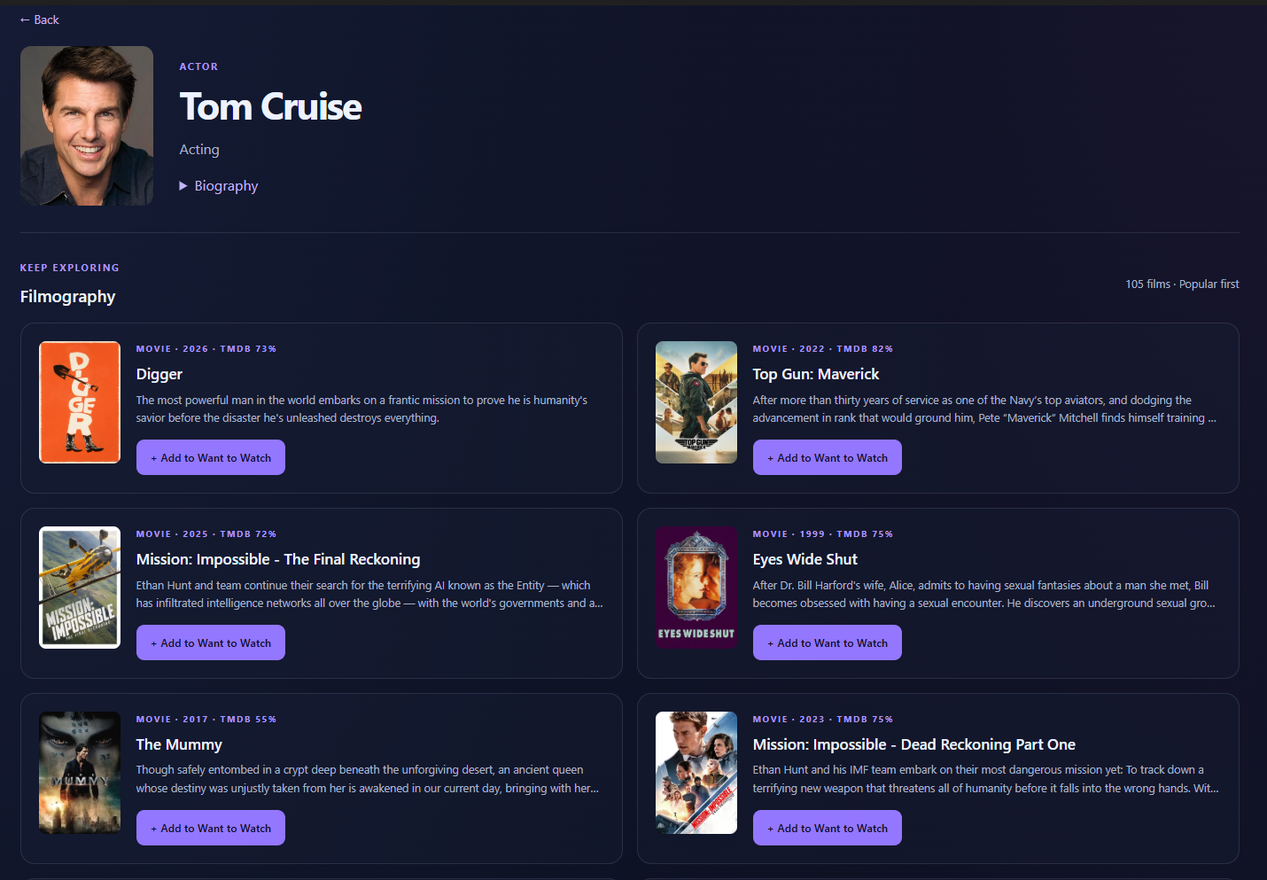
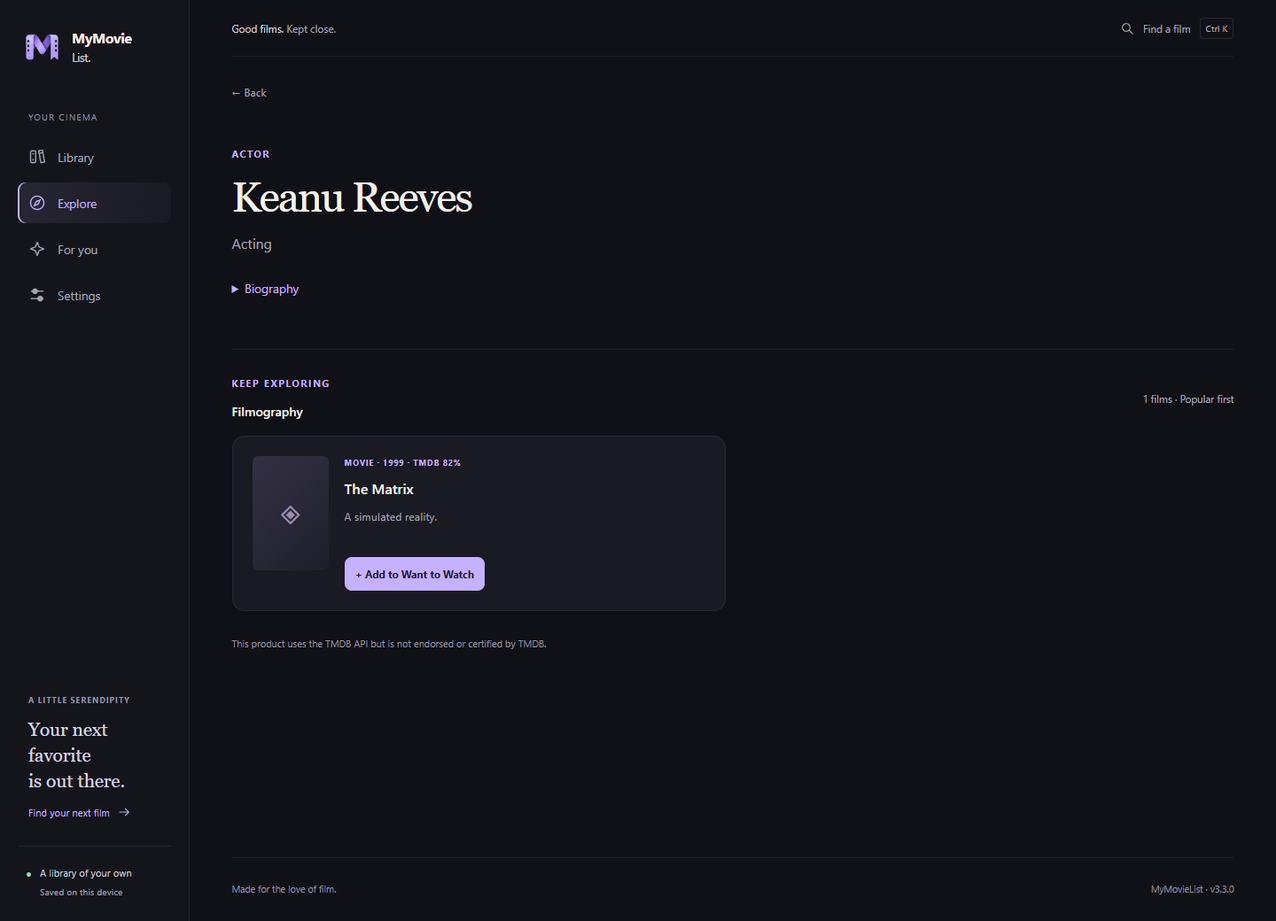
Update README

diff --git a/templates/base.html b/templates/base.html
@@ -11,6 +11,7 @@
                 MyMovieList
             {% endblock %}
         </title>
+        <link rel="icon" href="{{ url_for('static', filename='branding/mymovielist.ico') }}" sizes="any">
         <link rel="stylesheet"
               href="{{ url_for('static', filename='style.css', v=asset_version) }}">
         <script defer src="{{ url_for('static', filename='script.js', v=asset_version) }}"></script>
@@ -18,7 +19,7 @@
     <body>
         <a class="skip-link" href="#main">Skip to content</a>
         <aside class="sidebar">
-            <a class="brand" href="/" aria-label="MyMovieList home"><span class="brand-symbol">{{ icon('film', 23) }}</span><span>MyMovie<span class="brand-second">List<span class="brand-dot">.</span></span></span></a>
+            <a class="brand" href="/" aria-label="MyMovieList home"><img class="brand-logo" src="{{ url_for('static', filename='branding/mymovielist-256.png') }}" width="43" height="43" alt=""><span>MyMovie<span class="brand-second">List<span class="brand-dot">.</span></span></span></a>
             <p class="nav-caption">YOUR CINEMA</p>
             <nav class="app-nav" aria-label="Main navigation">
                 <a href="/"

diff --git a/static/style.css b/static/style.css
@@ -401,3 +401,5 @@ img.company-logo { object-fit: contain; background: #e8e6ed; padding: 12px; }
 @media (prefers-reduced-motion: reduce) {
     *, *::before, *::after { animation: none !important; transition: none !important; scroll-behavior: auto !important; }
 }
+
+.brand-logo { width: 43px; height: 43px; flex-shrink: 0; object-fit: contain; }

diff --git a/README.md b/README.md
@@ -1,246 +1,70 @@
-# MyMovieList v3.3.0
+<p align="center">
+  <img src="static/branding/mymovielist-256.png" alt="MyMovieList logo" width="110">
+</p>
+<h1 align="center">MyMovieList</h1>
+<p align="center"><strong>Your films. Your thoughts. Your space.</strong></p>
+<p align="center">A personal movie library with discovery, recommendations and a private journal. No account or API key required.</p>
+<p align="center"><a href="https://github.com/keremakcn/MyMovieList/releases/latest"><strong>Download</strong></a> · <a href="https://github.com/keremakcn/MyMovieList/releases">All releases</a></p>
 
-**Your personal film library, with discovery ready from the start.** Version 3.3.0 uses our shared discovery service at `api.myshelf.cloud`: no personal TMDB account, API key or token is needed. Your library and private journal remain on your device. See the [release notes](RELEASE_NOTES.md) and [UI design and verification notes](UI_DESIGN.md).
+## Get started
 
-A local-first personal film library for Windows and the browser. Flask + Jinja + SQLite, with a small JavaScript interaction layer and a native pywebview window.
+**Windows — v3.3.0**
 
-Keep your collection close, explore the people and studios behind your favorite films, and find something to watch tonight. Saved library information and downloaded posters remain available offline; discovery uses TMDB.
+1. Download `MyMovieList-v3.3.0-windows.zip` from the release’s **Assets**.
+2. Extract it and open `MyMovieList-v3.3.0.exe`. No Python installation is needed.
+3. Search for a film and add it to your library. Discovery is ready without setup.
 
-## Your films. Your thoughts. Your space.
+**Android — 3.3.0 beta**
 
-Not every thought needs an audience. A film might leave you angry, challenge your beliefs, or bring back a memory you would rather keep to yourself. Write an honest reaction, a detailed review or a single sentence—without having to turn it into something for everyone else to read.
+Download the Android `.apk` from the release’s **Assets**, if attached. Android 7.0 or newer and a 64-bit ARM device are required. The Android app runs independently and keeps its own library; it does not sync with Windows. This is a beta: physical-device testing is still required. See [Android details](ANDROID.md).
 
-MyMovieList is also your personal film journal. Your ratings and notes are saved on your own computer, without being published to a public profile or shared with other users. Your notes are not sent to TMDB.
+## Features
 
-Local storage is not encryption: someone with access to your database or its backups could read your notes. Keep those files protected if they contain personal thoughts.
-
-## What's new in 3.3.0
-
-- **No API-key setup:** search movies, explore actors/directors and studios, and get recommendations through our shared Cloudflare service.
-- **Our own discovery address:** `https://api.myshelf.cloud` replaces the default `workers.dev` address.
-- **Simpler Settings:** no credential form; legacy local TMDB token settings are removed on startup.
-- **Local privacy preserved:** notes, ratings, favorites and viewing history stay on your computer. Only catalog requests and search terms pass through the discovery service.
-- **Verified Windows integration:** 68 automated tests passed, and live search was verified in the packaged Windows app.
-
-## Interface improvements retained from 3.2.0
-
-- **A new visual identity:** charcoal surfaces, lavender accents, editorial headings and a shared SVG icon set.
-- **A more focused library:** compact statistics, clearer filters, aligned movie cards and one-line note previews. View note opens the detail page without expanding the card.
-- **Navigation that fits the screen:** the desktop sidebar extends down the page and scrolls with the collection. Tablets use a compact rail; phones use a fixed bottom navigation bar.
-- **A new Explore landing page:** film, filmmaker and studio starting points lead into the existing connected discovery experience.
-- **Simpler recommendation controls:** discovery mode and New suggestions sit together; changing mode applies immediately. The recommendation algorithm is unchanged.
-- **Consistent pages:** refreshed film details, actor/director and company profiles, taste onboarding, settings and editing forms.
-- **Smoother interactions:** improved loading and empty states, keyboard focus after quick actions, and removal/Undo behavior in the editor.
-
-The existing library features, recommendation modes and database schema are retained. The Windows release continues using your library in `%APPDATA%\MovieWatchlist`, including its notes, ratings, favorites, saved posters and settings.
-
-## Included from 3.1.1
-
-- **New suggestions:** refresh recommendations without restarting the app. Normal page reloads keep the current selection.
-- **Fewer repeats:** the candidate pool expands on refresh, and up to 50 recently shown films per mode are held back while alternatives exist.
-- **Distinct discovery modes:** Close to my taste, A little discovery and Surprise me use different familiarity and novelty targets.
-- **Reliable refresh:** library and hidden films stay excluded; failed refreshes preserve the current selection.
-- **Simpler cards:** removed the Why this film explanation panels.
-- **Validation:** 46 automated tests plus isolated browser checks for repeated refreshes and error recovery.
-
-## Introduced in 3.1
-
-- **For you:** personal suggestions based on ratings, favorites and taste selections, ranked locally.
-- **Taste onboarding:** choose films you enjoyed; new selections enter your library as watched without duplicating existing entries.
-- **Session-based discovery:** stable picks while the app is running, with a fresh selection on restart and fewer repeats from the previous session.
-- **Discovery controls:** choose how adventurous your picks should be, add films directly or hide individual suggestions with Undo.
-- **Simple recommendation cards:** focus on the film and its actions without explanation panels.
-
-## Library and discovery features
-
-- **Explore:** one search box with Movies, Actors, Directors and Companies checkboxes. Movies, actors and directors start selected. Suggestions, results and pagination respect the selection; press Search to apply changed filters.
-- **One-click collection:** add from search, film details, a person's filmography or a studio's films without leaving the page. Existing entries link to the rating/note editor.
-- **Connected discovery:** film → actor/director → filmography and film → studio → films. Writers and producers are also linked from film details, with multiple contributions preserved and duplicate names within a credit group removed.
-- **Your library:** favorites independent of watched status, 1–10 ratings, notes, watched dates, title filtering across the entire library, and eleven sort choices.
-- **Compact cards:** aligned posters, two-line titles, fixed action rows and a single-line note preview. View note opens the note on the movie detail page; cards never expand. Lazy-loaded posters and 36 films per page.
-- **Recoverable removal:** a 10-second Undo notification plus a permanent **Recently removed** view. Restore preserves the original row, metadata and ordering. There is no automatic purge.
-- **Keyboard support:** Ctrl/Command+K focuses search. Ctrl/Command+Z triggers the most recent visible Undo when you are not editing text. Standard Tab/Enter controls work throughout.
-- **Local storage:** saved film information and downloaded posters remain available offline. If a poster download fails, its online URL is retained; the rest of the movie is still saved.
-
-## Personal recommendations
-
-Open **For you** to get up to ten suggestions, or choose **Choose films you love** for a short, skippable taste survey.
-
-- Start with a varied selection of up to 12 films, including different genres, older films and non-English cinema. Browse another selection or search for a title; your selections remain checked while browsing.
-- Pick 3–5 films you enjoyed (up to 24). On **Save picks & continue**, new films enter the library as **Watched**, with no invented rating, favorite or watched date. Existing entries retain their personal data and status. Previously removed entries are restored with their metadata.
-- Survey likes are separate from favorites and ratings. Editing your picks changes their recommendation signal without deleting library films. Skipping does not add anything.
-- Ratings, favorites and survey likes shape a local genre profile. A single film has limited influence; repeated evidence increases confidence. Related films from the same director count as less independent evidence, and contradictory signals reduce confidence. Low explicit ratings override older survey likes.
-- Picks stay in the same order while the app process is running, including page reloads, unless you choose **New suggestions**. Restarting the desktop app creates a fresh selection. Up to 50 recently shown film IDs per mode are kept locally; unseen candidates take priority over these recent picks. Limited candidate pools may still repeat films. Adding or hiding a film removes it from the current selection, with replacements taken from the same saved order. Editing survey picks explicitly rebuilds the selection; each discovery mode has its own session selection. In browser mode, restarting the local server starts a new recommendation session.
-- Use **New suggestions** to refresh the current discovery mode at any time. Reloading the page keeps the current selection; reopening the desktop app also creates new picks. Refreshing loads the next page of eight fixed public genre queries and ranks a rolling pool of up to 800 films. Recent picks are held back while unseen alternatives exist; library and hidden films remain excluded. If an online refresh fails, the previous selection stays available. Films can appear again in later sessions if they have not been added or hidden.
-- Choose **Close to my taste**, **A little discovery** or **Surprise me**. With sufficient preference evidence and available candidates, the modes target roughly 8, 5 and 2 familiar-genre films out of ten, respectively. Exploration also receives a higher novelty weight; negative ratings still count against a film. Sparse pools and limited taste evidence soften these distinctions.
-- **Not interested** hides only that film; Undo and **Hidden suggestions → Show again** restore it.
-- Existing library entries are excluded from new discoveries. Up to three Want to Watch entries are shown separately as films to consider tonight.
-
-This first version uses genre-level matching, not plot-twist detection, semantic analysis of notes or a trained machine-learning model. It ranks a bounded public TMDB candidate pool locally; taste-derived IDs, notes, ratings and favorites are not sent to TMDB. Explicit title searches and fetching films you choose to add still use TMDB normally. Without enough consistent evidence, the screen labels results as starting suggestions rather than fully personal picks.
+- Track **Want to watch** and **Watched**, with ratings, favorites and private notes.
+- Add films directly from search without losing your results.
+- Explore actors, directors and production companies, then discover their films.
+- Get personal recommendations with **Close to my taste**, **A little discovery** and **Surprise me** modes. Refresh for new suggestions.
+- Choose films you enjoyed to help personalize recommendations.
+- Filter and sort your library. Undo removal without losing notes, ratings or the original added order.
+- Compact cards with a one-line note preview; open the detail page to read or edit.
+- Keyboard-friendly search, suggestions and navigation. Press **Ctrl+K** to search.
 
 ## Screenshots
 
-Screenshots show the redesigned interface with isolated example data.
+### Your library
 
-### Your movie library
+![MyMovieList library](screenshots/frontend-library.png)
 
-Collection statistics, compact cards, quick actions and a sidebar that follows the page's full height.
+### Explore films
 
-![Redesigned movie library with sidebar navigation and compact movie cards](screenshots/frontend-library.png)
+![MyMovieList discovery](screenshots/frontend-explore.png)
 
-### Search and discovery
+### Cast and filmmakers
 
-Search films, actors, directors and companies, or start exploring from a film, filmmaker or studio.
+![Actor profile](screenshots/actor.png)
 
-![Redesigned Explore page with search filters and discovery starting points](screenshots/frontend-explore.png)
+![Director profile](screenshots/director.png)
 
-## Mobile layout
+## Your thoughts stay yours
 
-On narrow screens, cards stack into a single column, controls wrap to fit, and main navigation moves to a fixed bottom bar. Notes remain compact and open on the film detail page.
+Not every reaction needs an audience. Write honestly without publishing your notes to a public profile. Your library, notes, ratings and favorites stay on your device and are not uploaded to our discovery service or TMDB.
 
-Browser checks at 320 and 390 CSS pixels found no horizontal page overflow in the tested flows. Tablet and smaller desktop layouts were also checked at 768 and 1024 pixels. These are browser viewport checks, not tests on physical phones; touch interaction, the on-screen keyboard and mobile Safari still need device testing. The Windows executable does not run on phones, and the default local server is not configured for phone access over a network.
+Searches and catalog requests pass through `api.myshelf.cloud` to TMDB. Discovery and remote images need internet; saved library information and downloaded posters remain available offline. Local storage is not encrypted.
 
-### Standalone Android beta
-
-The new `android/` project packages the shared library code inside an Android app, so the phone does not need a running computer or a hosted server. Its library lives in private app storage and is independent of the Windows library. Phone controls have larger touch targets and 16px form text.
-
-Android builds are tracked separately as `3.2.0-android-beta.1`; this does not replace the stable Windows release. APK is the installable format for direct downloads, while AAB is intended for a future Play Store submission. Actual device verification is required before promoting the Android beta to stable. See [Android setup, signing and data storage](ANDROID.md).
-
-## Quick start
-
-1. Download and extract `MyMovieList-v3.3.0-windows.zip`, then open `MyMovieList-v3.3.0.exe` on Windows. For a local build, open `dist/MyMovieList-v3.3.0.exe`, or follow the source instructions below.
-2. Open the app and start exploring. No TMDB account, API key or token is required.
-3. Open **Explore**, enter a title or name, choose the categories below the search box, then press **Search**.
-4. Use **Add to Want to Watch** on a result or film page. A film already in your library links to its editor instead of creating another entry.
-5. Manage watched status, favorites, ratings and notes in **Library**. After removal, use **Undo** or restore the film from **Recently removed**.
-
-### Search filters
-
-There is one search box with independently selectable categories, replacing the previous All/type dropdown:
-
-| Filter | Includes | Selected by default |
-| --- | --- | --- |
-| Movies | Film title matches | Yes |
-| Actors | People primarily known for acting | Yes |
-| Directors | People primarily known for directing | Yes |
-| Companies | Production company name matches | No |
-
-Uncheck anything you do not want to search. Press **Search** to apply changes to the results; autocomplete uses the selected categories too. Selections stay in the URL, pagination and return links from detail pages. Select at least one category to run a search.
-
-People are labelled by TMDB's primary profession: a director is not labelled as an actor. Writer-only and producer-only primary professions are excluded from search, but their credits and filmographies remain accessible from movie details. Classification follows TMDB's primary profession rather than checking every job a person has ever held.
-
-Autocomplete supports **↑ / ↓**, **Enter** and **Escape**. Movie searches match titles; they do not automatically search the film's cast or director by that title. Follow the credits on the film page to explore those people.
-
-TMDB person results are filtered page by page. Combined and profession-filtered result counts describe the current page, and another page may contain additional matches. Search, remote film details and online posters require an internet connection; locally stored library data does not.
+**Updates preserve your Windows library.** Close the app before replacing the EXE. Existing data remains in `%APPDATA%\MovieWatchlist`; the original folder name is retained for compatibility. Android data stays in private app storage; uninstalling the app or clearing its storage deletes that library.
 
 ## Run from source
 
-Python 3.12 is tested. On Windows:
+Python 3.12 recommended:
 
 ```powershell
 python -m venv .venv
-.\.venv\Scripts\python.exe -m pip install -r requirements.txt
-.\.venv\Scripts\python.exe app.py
+.\.venv\Scripts\python -m pip install -r requirements-desktop.txt
+.\.venv\Scripts\python run_desktop.py
 ```
 
-Or use Flask's application factory:
+Build Windows with `.\scripts\build_release.ps1`. See [release notes](RELEASE_NOTES.md), [QA results](QA_RESULTS.md), [Android build instructions](ANDROID.md) and [discovery service setup](cloudflare/watchlist-api/README.md) for development details.
 
-```powershell
-.\.venv\Scripts\python.exe -m flask --app app:create_app run
-```
+## Credits
 
-Open `http://127.0.0.1:5000`. The app is intended for one user on the local machine, not for public hosting.
-
-## Desktop
-
-The release executable is `dist/MyMovieList-v3.3.0.exe`. It uses `%APPDATA%\MovieWatchlist`, the same data directory as earlier releases. Close the running application before opening the new version. Replacing or moving the executable does not move or erase your library; no adjacent `data/` folder is required.
-
-To run the native window from source after installing the desktop requirements, run `.\.venv\Scripts\python.exe run_desktop.py`.
-
-To build the executable and a clean release ZIP:
-
-```powershell
-.\.venv\Scripts\python.exe -m pip install -r requirements-desktop.txt
-.\scripts\build_release.ps1
-```
-
-The desktop server binds to an available loopback port before opening the window, avoiding fixed-port collisions. Windows needs the Edge WebView2 runtime.
-
-The build script reads `version.py`, creates `dist/MyMovieList-v3.3.0.exe`, and packages only that executable and the release notes. Upload `dist/releases/v3.3.0/MyMovieList-v3.3.0-windows.zip` and its `SHA256SUMS.txt` to your release. Personal databases, `.env` files, posters and old executables are excluded. The script accepts `-Python` if your environment is stored elsewhere.
-
-## Data and upgrades
-
-- Source mode: `movies.db` and `posters/` in the project directory.
-- Packaged Windows release: `%APPDATA%\MovieWatchlist\movies.db` and `%APPDATA%\MovieWatchlist\posters/`.
-- `MOVIE_WATCHLIST_DATA_DIR` explicitly overrides the data directory in both source and packaged mode; remove an old override if you want the default AppData library.
-- Before migrating an existing database, the app creates `movies.db.before-v2-<timestamp>.bak` beside it using SQLite's backup API.
-- Application version **3.3.0** keeps database schema version **2**. This release adds no schema migration.
-- Migrations run in a transaction and never automatically delete duplicate records. If a legacy database contains duplicate TMDB IDs, the migration stops with a diagnostic so they can be reconciled without losing notes.
-- New records store creation/update timestamps. Older records keep their IDs and original ordering; their unknown creation dates are not invented.
-- Removing a film sets `deleted_at`. Restoring clears it on the same row. Re-adding a removed TMDB movie restores that original entry, including its previous status and personal data.
-- Schema 2 adds separate survey-like and hidden-suggestion tables; existing movie columns are preserved.
-- A removal marker prevents an old Undo notification from undoing a later deletion.
-- The retired `movie_catalog` table is preserved but not used. `import_movies.py` is now a non-destructive compatibility notice.
-
-To restore an entire backup, close the app, keep a copy of the current database, and replace `movies.db` with the chosen backup. Keep `posters/` together with library backups. Do not copy an actively written SQLite database; use SQLite's backup API or close the app first.
-
-If you tried the separate frontend preview, its adjacent `data/` library remains separate. The release does not overwrite AppData with that test library or automatically merge it. Keep the preview files if you need to recover notes added there.
-
-## TMDB configuration and privacy
-
-Discovery connects through the shared Cloudflare Worker at `https://api.myshelf.cloud`. The TMDB credential is stored only as a Cloudflare Secret. Users do not need a TMDB account, API key or token; Settings no longer collects credentials. Legacy `tmdb_token` settings are removed on application startup, and `TMDB_ACCESS_TOKEN` is no longer used.
-
-Search terms and requests for catalog information pass through Cloudflare to TMDB. Private notes, ratings, favorites and viewing history remain local. Poster images still load from TMDB's image service when not downloaded locally. Discovery requires the gateway and an internet connection; saved library data and downloaded posters remain available offline. The anonymous gateway has rate limits, but does not guarantee that only our applications can call it. See `cloudflare/watchlist-api/README.md` for deployment details.
-
-For deployment, `MOVIE_WATCHLIST_GATEWAY_URL` can select the same gateway on a custom HTTPS domain (for example `https://api.example.com`). Credentials, query strings and unrelated base paths are rejected. This is an operator configuration, not a user API-key requirement. The default address is `https://api.myshelf.cloud`; the custom domain avoids reliance on the workers.dev hostname.
-
-Optional `FLASK_SECRET_KEY` keeps session signing stable between launches. Without it, sessions are deliberately invalidated on restart and an old open page may need a refresh.
-
-Writes require a session CSRF token. The app validates local host names, uses same-site cookies, and sends a restrictive content security policy. All TMDB requests use a shared, bounded cache and single-flight request handling. Search results expire after two minutes; detail responses after six hours; ordinary failures after three seconds. Rate-limit responses respect Retry-After and pause further requests. The refresh action invalidates the relevant movie cache.
-
-This product uses the TMDB API but is not endorsed or certified by TMDB.
-
-## Structure
-
-```text
-app.py                  Application factory, views, validation and security
-storage.py              SQLite transactions, migration, membership and recovery
-tmdb_client.py          TMDB requests, cache, error handling and normalization
-recommendations.py      Local taste profile, public candidate pool and diverse ranking
-recommendation_routes.py Survey, recommendation and feedback routes
-run_desktop.py          Native window lifecycle using the shared data configuration
-version.py              Application version shared by the UI, launcher and build
-scripts/build_release.ps1 Clean Windows release packaging and SHA-256 checksums
-android/                Standalone Android shell, embedded Python and local authentication
-scripts/build_android.ps1 Android APK/AAB packaging
-static/script.js        Shared actions, toasts, autocomplete and library filtering
-static/recommendations.js Recommendation and taste-survey interactions
-static/style.css        Design tokens, shared components and responsive layouts
-templates/base.html     Shared page shell and navigation
-templates/_icons.html   Shared SVG icon set
-templates/_*.html       Shared result cards, actions, pagination and entity links
-tests/                  Isolated library, migration, recommendation and concurrency tests
-tests/frontend.e2e.cjs   Browser layout and interaction checks
-tests/frontend_fixture_server.py Isolated UI fixtures with mocked TMDB responses
-```
-
-## Development checks
-
-```powershell
-.\.venv\Scripts\python.exe -m pip install -r requirements-dev.txt
-.\.venv\Scripts\python.exe -m pytest -q
-.\.venv\Scripts\ruff.exe check app.py storage.py tmdb_client.py run_desktop.py import_movies.py recommendations.py recommendation_routes.py tests --select F
-node --check static/script.js
-node --check static/recommendations.js
-```
-
-The latest verification passed **68 tests**, covering credential-free gateway requests, secure custom-domain configuration, legacy-token cleanup, offline library preservation, migration and recovery, duplicate/race handling, request safeguards, caching, discovery navigation, checkbox filtering, autocomplete, pagination and desktop data-directory selection. Desktop launcher tests simulate a packaged application and verify preservation of existing records in AppData and in an explicitly overridden data directory. Tests use temporary databases and mocked TMDB responses; they do not modify the personal library. Node.js is only needed for JavaScript checks and browser testing, not to run the app.
-
-Frontend checks covered ten desktop pages, four responsive widths, equal card heights, long titles, missing posters, removal/Undo and keyboard focus. No JavaScript errors were reported in those scenarios. The latest sidebar change was also checked for desktop scrolling and fixed mobile navigation.
-
-See [UI_DESIGN.md](UI_DESIGN.md) for browser test instructions and limitations, and [QA_RESULTS.md](QA_RESULTS.md) for verification details.
-
-
-## Name and existing libraries
-
-MyMovieList was previously called Movie Watchlist. Existing Windows libraries continue using `%APPDATA%\MovieWatchlist` so upgrading does not create an empty library or require a manual transfer. Existing data-directory and gateway environment variable names remain supported. The repository and source folder names may still use the original name.
+Movie data and images are provided by [TMDB](https://www.themoviedb.org). This product uses the TMDB API but is not endorsed or certified by TMDB.

diff --git a/ANDROID.md b/ANDROID.md
@@ -1,6 +1,6 @@
 # Android — standalone beta
 
-The Android app runs the film library on the phone itself. It does not connect to a desktop computer or require a hosted MyMovieList server. This is a new Android beta; the existing Windows v3.2.0 release remains separate.
+The Android app runs the film library on the phone itself. It does not connect to a desktop computer or require a hosted MyMovieList server. This is a new Android beta; the existing Windows v3.3.0 release remains separate.
 
 ## Architecture
 
@@ -16,7 +16,7 @@ Films and notes are stored in the app's private `files/library/` directory. They
 
 The release application ID is `com.moviewatchlist`. Its usual private data path is `/data/user/0/com.moviewatchlist/files/library/`. Builds with a different application ID have separate storage and do not automatically transfer their library.
 
-Cloud backup and device-transfer backup are disabled for the private library. Local storage is not an application-level encrypted vault. Discovery and remote images require internet access; saved film information and downloaded posters remain available offline. Users supply their own TMDB token in Settings, as on Windows. No developer token is embedded in the APK.
+Cloud backup and device-transfer backup are disabled for the private library. Local storage is not an application-level encrypted vault. Discovery and remote images require internet access; saved film information and downloaded posters remain available offline. Discovery uses the shared https://api.myshelf.cloud service. No personal TMDB account or token is required, and no developer credential is embedded in the APK.
 
 ## Requirements
 
@@ -52,7 +52,7 @@ Then build:
 .\scripts\build_android.ps1 -Release
 ```
 
-Outputs are placed in `dist/android/3.2.0-android-beta.1/`:
+Outputs are placed in `dist/android/3.3.0-android-beta.1/`:
 
 - `.apk`: installable download for a GitHub prerelease.
 - `.aab`: Android App Bundle for a future Google Play submission; it is not installed directly by users.
@@ -77,3 +77,7 @@ Before promoting this beta to a stable phone release, test the actual APK on dev
 Google Play publication is a separate step requiring your developer account, signing setup, privacy disclosures and store review. A successful APK/AAB build alone does not mean the app is ready or approved for the Play Store.
 
 Technical references: [Chaquopy](https://chaquo.com/chaquopy/doc/current/android.html), [Android WebView](https://developer.android.com/develop/ui/views/layout/webapps/webview), [Android App Bundles](https://developer.android.com/guide/app-bundle).
+
+## Latest build — October 5, 2026
+
+Signed `MyMovieList-3.3.0-android-beta.1.apk` and `.aab` generated in `dist/android/3.3.0-android-beta.1/`. The APK uses the existing release signing certificate, retains `com.moviewatchlist`, and increments `versionCode` to 2. The new logo and shared discovery gateway are included. Signature and package alignment verified; physical-device testing is pending.

diff --git a/QA_RESULTS.md b/QA_RESULTS.md
@@ -178,3 +178,11 @@ Gateway network follow-up: 68 isolated tests passed. Custom HTTPS gateway config
 Follow-up: Cleared Windows DNS client cache after stale negative resolution. Normal application TMDBClient search returned 20 results; rebuilt EXE smoke test passed startup, token-free Settings, isolated library and LIVE search. No DNS server settings or hosts entries were changed.
 
 MyMovieList rebrand (2026-10-05): 68 tests passed; packaged MyMovieList-v3.3.0.exe verified with new branding and live movie search in an isolated data directory. Existing AppData/MovieWatchlist data path retained.
+
+## MyMovieList logo and Android 3.3.0 beta — 2026-10-05
+
+- Approved generated logo converted to transparent PNG, 256px PNG and ICO with nine sizes from 16 through 256px. Windows icon, sidebar, favicon, README and Android launcher updated.
+- 68 Python tests, desktop browser flows, four mobile widths and mobile interaction tests passed. New Windows EXE live search passed with isolated data.
+- Signed Android APK and AAB built successfully; release package keeps com.moviewatchlist identity, raises versionCode to 2, and uses the same signing certificate as the previous 3.2.0 APK.
+- APK signature v2 and 16KB ZIP alignment verified. Shared logo assets included; personal databases, environment files and private signing files excluded.
+- Android app label MyMovieList and versionName 3.3.0-android-beta.1 verified. Physical Android-device installation/runtime verification remains pending.

diff --git a/RELEASE_NOTES.md b/RELEASE_NOTES.md
@@ -4,6 +4,8 @@ A fresh look for your personal film library, with a cleaner desktop experience a
 
 ## What's new
 
+- New lavender film-ribbon logo, Windows icon and Android launcher icon.
+- Signed Android beta `3.3.0-android-beta.1` available with token-free discovery; physical-device testing is still pending.
 - Movie discovery works without a personal TMDB account or token, through the shared Cloudflare gateway at `api.myshelf.cloud`.
 - Settings no longer asks for API credentials; obsolete saved tokens are removed on startup while library data stays local.
 - Redesigned interface with charcoal surfaces, lavender accents, refined typography and consistent icons.
